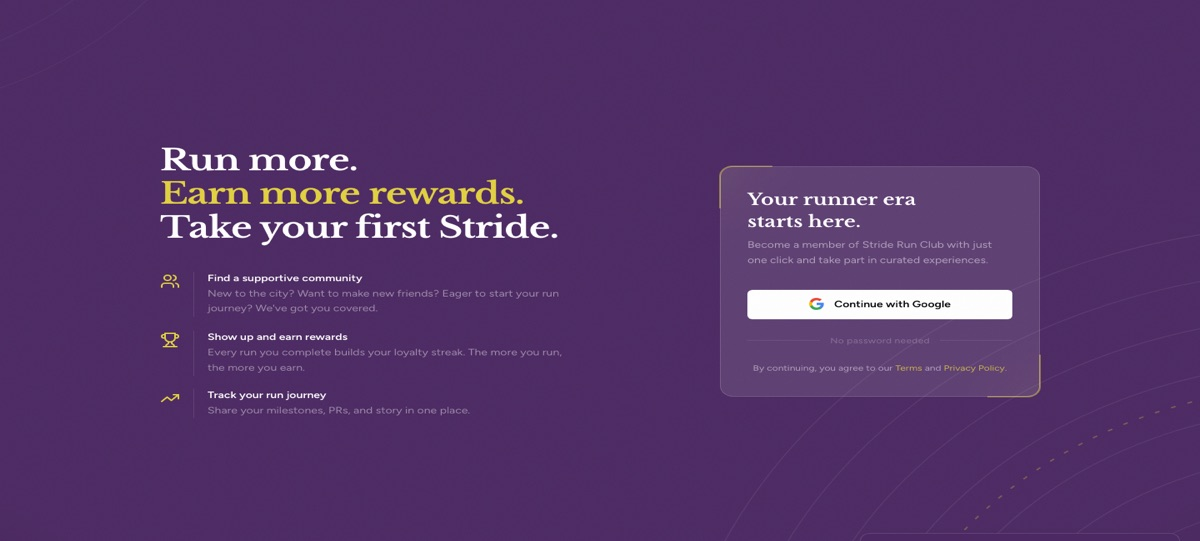
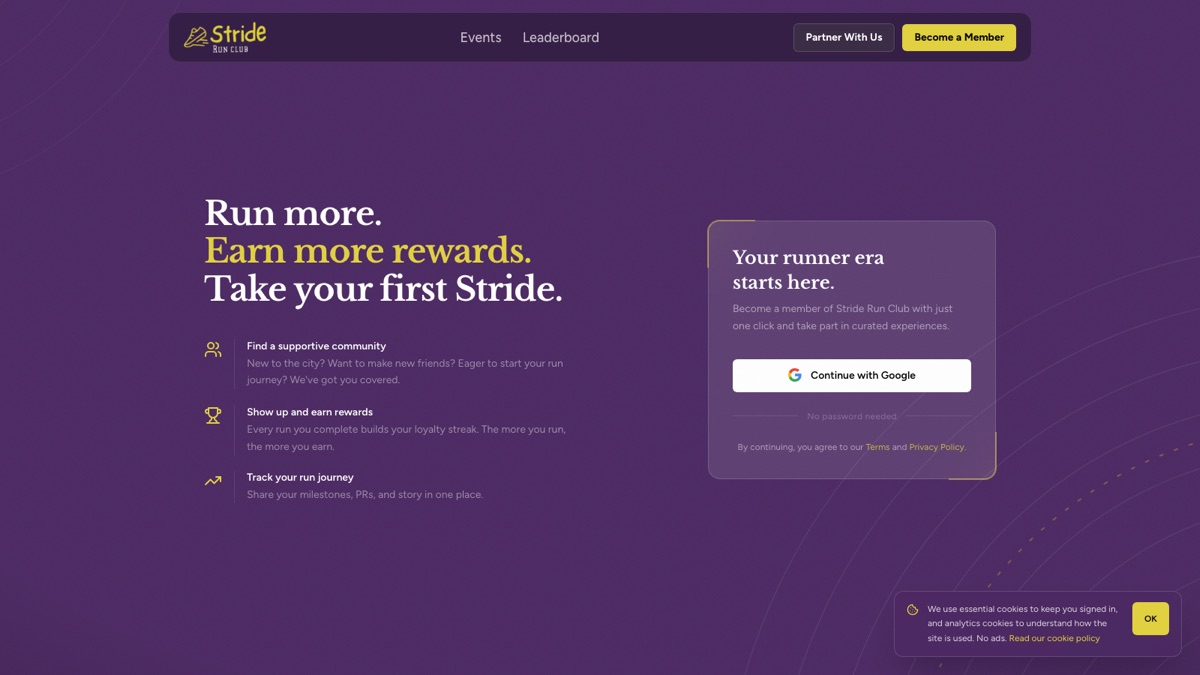
fix(flagship): true 16:9 carousel captures, compact stats under the CTA, tagline
- Recaptured all eight Stride pages at a 1600x900 window and resized
  proportionally to 1200x675; the previous crop-then-resize step had
  distorted them to 1200x541
- Stats move into the left column under the Visit button as a compact
  four-up row (20-24px) instead of a full-width card grid
- Tagline: the ticketing platform behind Bengaluru's most engaged running community

diff --git a/src/components/FlagshipProject.tsx b/src/components/FlagshipProject.tsx
@@ -48,6 +48,18 @@ export function FlagshipProject() {
                 </Link>
               </Button>
             </div>
+
+            {/* Stats */}
+            <dl className="mt-8 grid grid-cols-2 gap-x-6 gap-y-4 sm:grid-cols-4 border-t border-border pt-6">
+              {flagship.stats.map((stat) => (
+                <div key={stat.label}>
+                  <dd className="font-mono text-xl md:text-2xl font-bold text-primary tracking-tight">
+                    {stat.value}
+                  </dd>
+                  <dt className="text-xs text-muted-foreground mt-0.5">{stat.label}</dt>
+                </div>
+              ))}
+            </dl>
           </div>
 
           <a
@@ -68,18 +80,6 @@ export function FlagshipProject() {
             </div>
           </a>
         </div>
-
-        {/* Stats */}
-        <dl className="mt-12 grid grid-cols-2 gap-4 md:grid-cols-4 opacity-0 animate-fade-in-up stagger-2">
-          {flagship.stats.map((stat) => (
-            <div key={stat.label} className="rounded-lg border border-border bg-card p-6 md:p-8">
-              <dd className="font-mono text-4xl md:text-5xl lg:text-6xl font-bold text-primary tracking-tight">
-                {stat.value}
-              </dd>
-              <dt className="text-sm md:text-base text-muted-foreground mt-2">{stat.label}</dt>
-            </div>
-          ))}
-        </dl>
 
         {/* Screenshot carousel */}
         <div className="mt-12 opacity-0 animate-fade-in-up stagger-3">

diff --git a/src/data/flagship.ts b/src/data/flagship.ts
@@ -24,7 +24,7 @@ export const flagship = {
   slug: "stride-club",
   label: "Flagship project",
   name: "Stride Run Club web app",
-  tagline: "The full tech stack behind Bengaluru's most engaged running community.",
+  tagline: "The ticketing platform behind Bengaluru's most engaged running community.",
   url: "https://www.strideclub.in",
   urlLabel: "strideclub.in",
   image: "stride-club.jpg",
